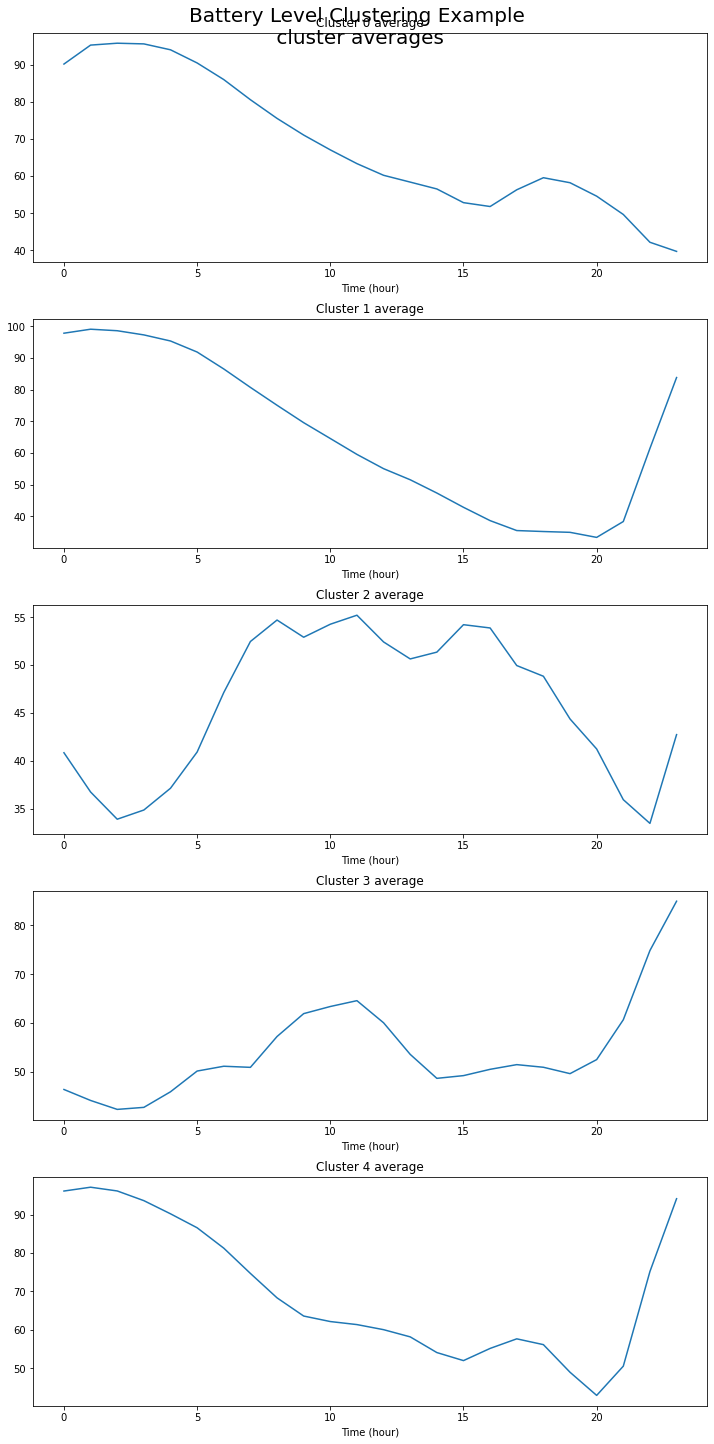
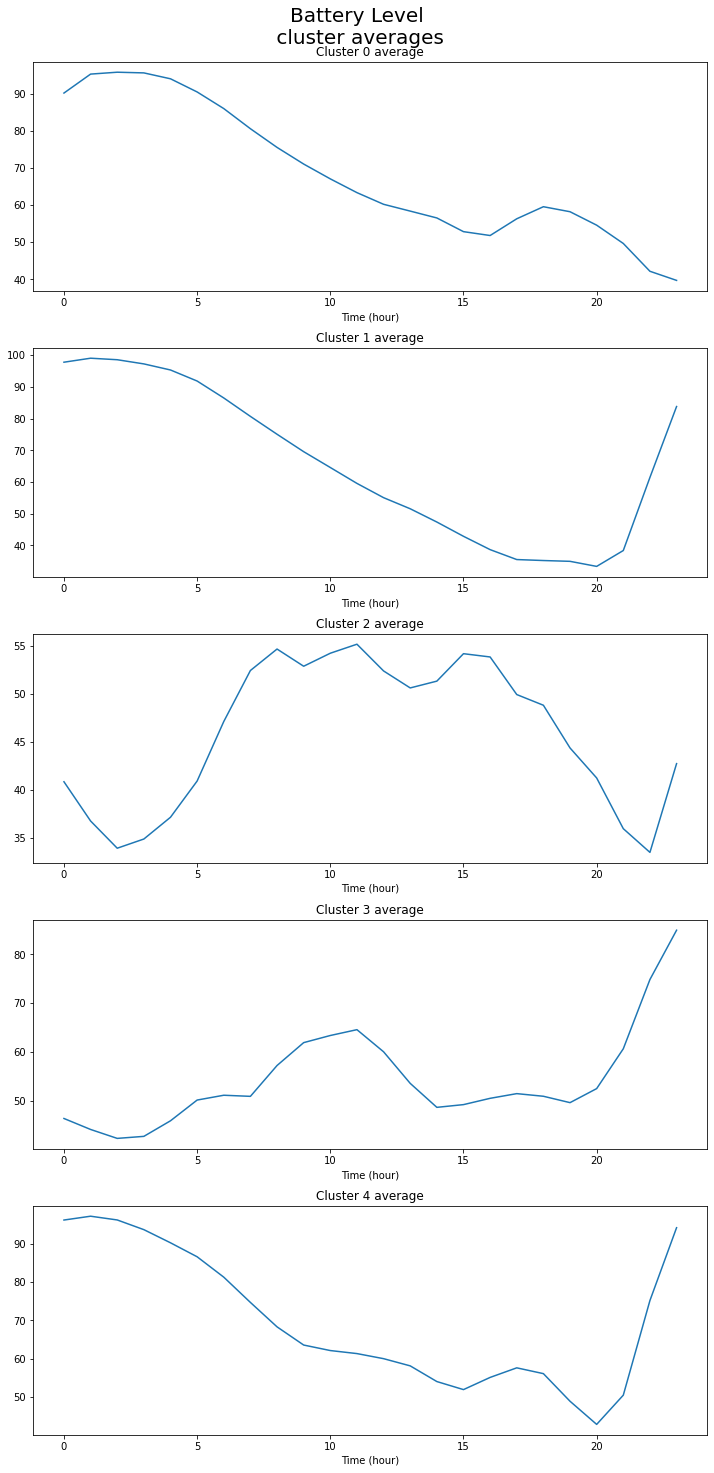
clustering_example

diff --git a/clustering_example.py b/clustering_example.py
@@ -29,11 +29,11 @@ data = np.stack(df.battery_level.values)
 clusters = cluster_timeseries(data,
                               FIGNAME = False,
                               FIGPATH = False,
-                              title = 'Battery Level Clustering Example', 
+                              title = 'Battery Level', 
                               n = 5, 
                               mi = 5, 
                               mib = 5, 
                               rs = 0, 
                               metric = 'dtw', 
                               highlight = None,
-                              ylim_ = None)
+                              ylim_ = (0,100))

diff --git a/tscfat/Analysis/cluster_timeseries.py b/tscfat/Analysis/cluster_timeseries.py
@@ -86,7 +86,7 @@ def _plot_cluster_averages(data, clusters, n, title, xlab = "Time (hour)",
         filt[i,:] = clusters == i
             
     fig,ax = plt.subplots(n,1,figsize=(10,20))
-    fig.suptitle(title + '\n cluster averages', fontsize = 20, y=1)
+    fig.suptitle(title + ' cluster averages', fontsize = 20, y=1.02)
     
     for i in range(n):
         ax[i].plot(np.mean(data[filt[i]], axis = 0))

diff --git a/Docs/source/HowTo.rst b/Docs/source/HowTo.rst
@@ -243,14 +243,15 @@ The example code::
 	clusters = cluster_timeseries(data,
 		                      FIGNAME = False,
 		                      FIGPATH = False,
-		                      title = 'Battery Level Clustering Example', 
+		                      title = 'Battery Level', 
 		                      n = 5, 
 		                      mi = 5, 
 		                      mib = 5, 
 		                      rs = 0, 
 		                      metric = 'dtw', 
 		                      highlight = None,
-		                      ylim_ = None)
+		                      ylim_ = (0,100)
+		                      )
 
 The output images:  
 
